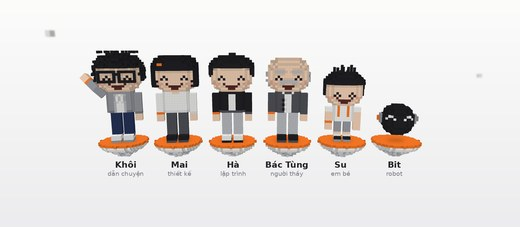
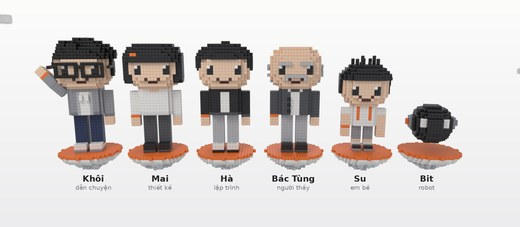
Re-render voxel-studio previews in 3D after the owner's review
The README preview GIF and cast picture now come from a path-traced render
of the same voxel rigs (bevelled cubes, soft area light, contact shadows),
replacing the flat polygon renders the owner found too rough.

Claude-Session: https://claude.ai/code/session_0175X6MkEcevSw5uMAoZgGbL

diff --git a/skills/directing-stickman-videos/references/styles/voxel-studio.md b/skills/directing-stickman-videos/references/styles/voxel-studio.md
@@ -51,6 +51,11 @@ backdrops.
 graph paper; Voxelgram's seams are a hair darker than the face, so the renderer's seam went from 86% to 90% of the face
 colour and the prompt asks for "softly rounded edges" instead of outlines.
 
+**What the owner's review changed:** the first sheets were flat Pillow polygons and read as rough next to the
+reference picture. The same voxel rigs are now path-traced in 3D (Blender's Cycles engine through the `bpy` module):
+every cube has a small bevel, soft area lights give contact shadows and bounce light, and Khôi's hair became round
+clumps of cube curls instead of a smooth cap. Nothing in the pictures is AI-generated.
+
 ### Five signature traits
 
 1. `must` Everything is built from many small matte cubes of one size, each cube one flat colour, with soft seams
